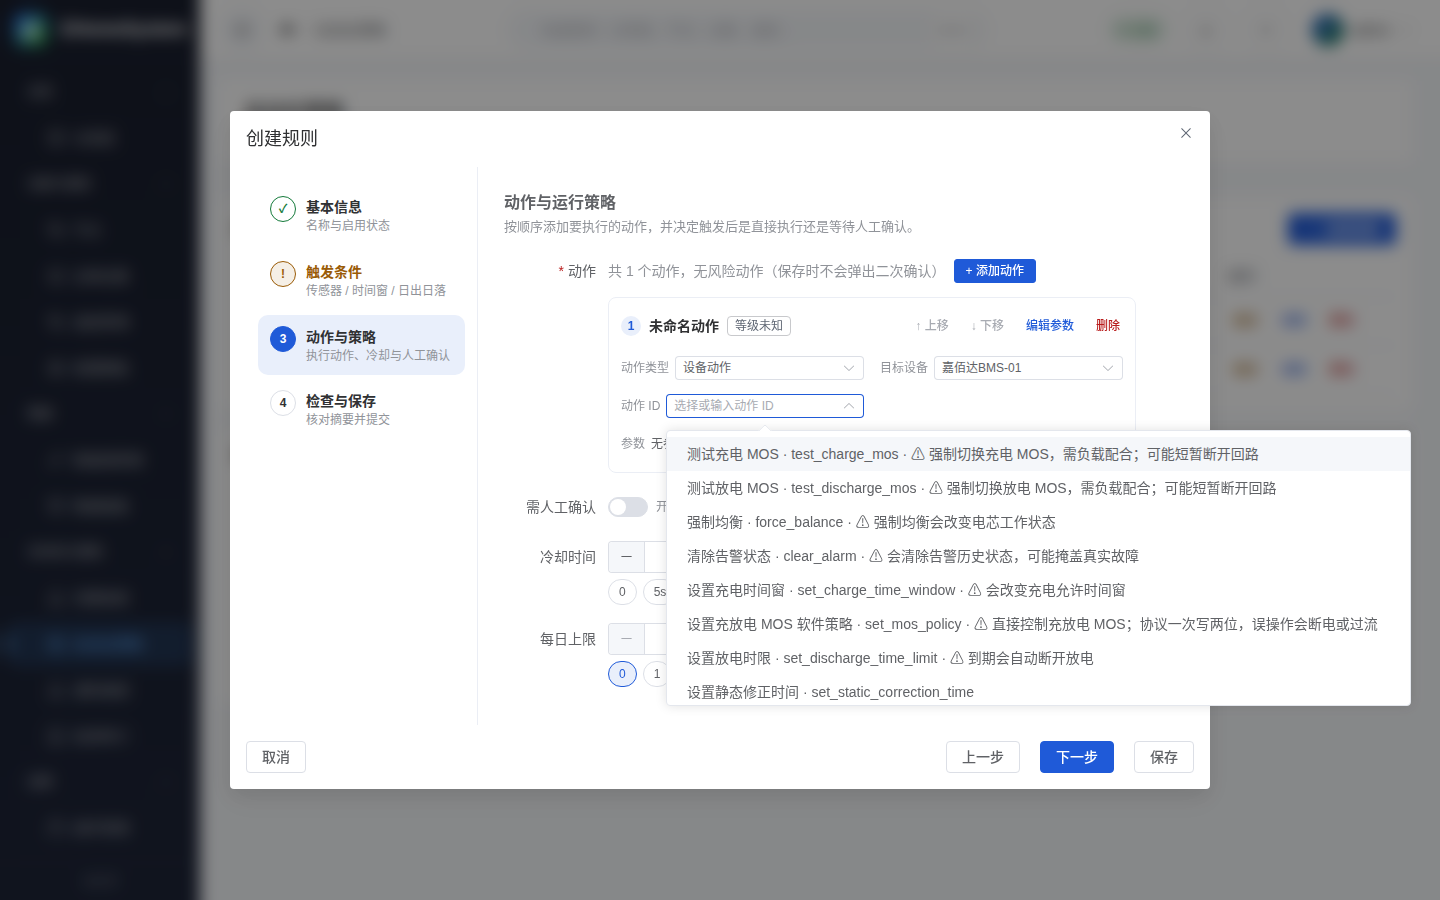
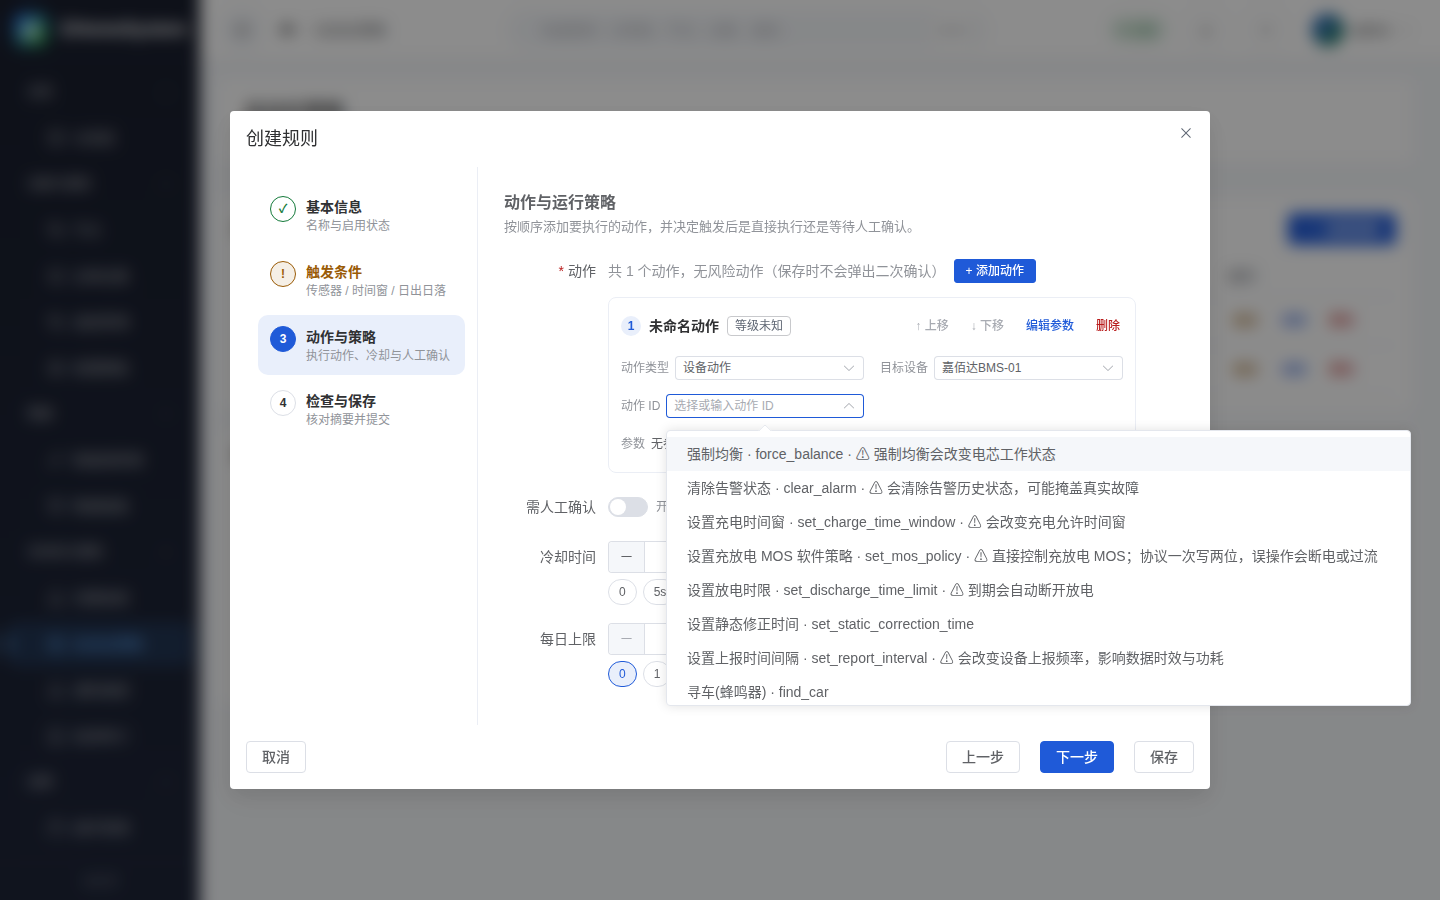
fix(automation): 0x0C 产测 MOS 命令移出规则动作目录
test_charge_mos / test_discharge_mos 是 BMS 产测/自检命令（写 0x0C test_status
后读回 OK/NG/超时，结果依赖外部负载），不是可反复设置的状态开关，也不适合
规则编排。两者显式标为 Exposure=diagnostic，只保留在设备详情/手动控制；
规则向导 automation 目录由 12 个降为 10 个方法动作。

同步更新 BMS 元数据单测、分析/验证文档与证据截图。

Changed region(s): [[0.4688, 0.4978, 0.9688, 0.7778]]

diff --git a/backend/internal/drivers/jiabaida_control.go b/backend/internal/drivers/jiabaida_control.go
@@ -82,13 +82,16 @@ func (d *JiabaidaBMSDriver) ControlActions() []ControlAction {
 	// MOS test / balance / buzzer / alarm / EDV / custom / resistance / timing
 	// -----------------------------------------------------------------------
 	actions = append(actions,
+		// 0x0C 是 BMS 的产测/自检命令，不是可反复设置的状态开关：写 test_status
+		// 触发一次测试，结果依赖外部负载，读回只用于判定 OK/NG/超时。规则编排要的是
+		// 幂等的开关方法，因此这两个动作仅保留在设备详情/手动控制（diagnostic）。
 		ControlAction{ID: "test_charge_mos", Version: 1, Name: "测试充电 MOS",
 			Description: "0C 写 test_status=01 + 读回 0C 状态对账；测试需注入负载电流",
-			Semantics:   "set", Enabled: true, Risk: "high", ExecutionShape: "bounded_sequence", Verification: "readback",
+			Semantics:   "set", Exposure: "diagnostic", Enabled: true, Risk: "high", ExecutionShape: "bounded_sequence", Verification: "readback",
 			AtMostOnce: true, MaxSteps: 2},
 		ControlAction{ID: "test_discharge_mos", Version: 1, Name: "测试放电 MOS",
 			Description: "0C 写 test_status=02 + 读回 0C 状态对账；测试需注入负载电流",
-			Semantics:   "set", Enabled: true, Risk: "high", ExecutionShape: "bounded_sequence", Verification: "readback",
+			Semantics:   "set", Exposure: "diagnostic", Enabled: true, Risk: "high", ExecutionShape: "bounded_sequence", Verification: "readback",
 			AtMostOnce: true, MaxSteps: 2},
 		ControlAction{ID: "read_test_mos_status", Version: 1, Name: "读取 MOS 测试状态",
 			Description: "0C 读：返回充放电 MOS 测试状态(0 未测试/1 OK/2 NG/3 超时)",

diff --git a/backend/internal/drivers/jiabaida_metadata_test.go b/backend/internal/drivers/jiabaida_metadata_test.go
@@ -52,4 +52,11 @@ func TestJiabaidaAutomationMetadata(t *testing.T) {
 			t.Errorf("%s must carry risk_reason", id)
 		}
 	}
+
+	// 0x0C 是产测/自检命令，不是可反复设置的状态开关：只能留在设备详情/手动控制。
+	for _, id := range []string{"test_charge_mos", "test_discharge_mos"} {
+		if byID[id].Exposure != "diagnostic" {
+			t.Errorf("%s exposure = %q, want diagnostic", id, byID[id].Exposure)
+		}
+	}
 }

diff --git a/docs/README.md b/docs/README.md
@@ -29,7 +29,7 @@
 ### 2026-11-14（**创建规则四问题修复** —— 步骤状态 / 动作目录 / 风险 / MOS）
 
 - **步骤状态**：跳过未完成步骤显示黄色 !，补齐即转绿；保存前标记全部错误步骤并跳回第一个。修掉"位置在前 = 已完成"的错误。
-- **动作目录**：新增 Exposure（automation/diagnostic/configuration）、RiskReason、Presets；自动化只保留 12 个方法动作，BMS 的 read_*/write_* 不再出现；风险选项显示具体风险原因。
+- **动作目录**：新增 Exposure（automation/diagnostic/configuration）、RiskReason、Presets；自动化只保留 10 个方法动作（0x0C 产测命令也归入 diagnostic），BMS 的 read_*/write_* 不再出现；风险选项显示具体风险原因。
 - **可用性拆分**：Catalog 增加 Configurable / RuntimeReason；设备离线时动作仍可选、可保存，页面显示一条"设备当前离线"横幅，不再逐项重复"当前不可用"。
 - **MOS 简化**：set_mos_policy 提供 4 个一键预设（充电/放电 × 开/关），选中后不再自动弹参数表单，priority 不出现在默认路径；高级入口保留。
 - **验证**：前端 2567 passed | 1 skipped、typecheck 绿；后端 go test ./... 通过；Playwright 截图见 [证据-2026-11-14-规则目录修复](验证/证据-2026-11-14-规则目录修复/)，详见 [验证记录 §16](验证/日出日落BMS-MOS-自动化验证记录-2026-11-13.md)。

diff --git a/docs/验证/日出日落BMS-MOS-自动化验证记录-2026-11-13.md b/docs/验证/日出日落BMS-MOS-自动化验证记录-2026-11-13.md
@@ -461,10 +461,10 @@ Playwright（真实浏览器 + 运行中后端）：
 | 指标 | 修复前 | 修复后 |
 |---|---|---|
 | 目录总数 | 28（含 read_*/write_*） | 28（全部） |
-| 规则向导候选 | 28 | **12（仅 automation 方法动作）** |
+| 规则向导候选 | 28 | **10（仅 automation 方法动作）** |
 | read_*/write_* 泄漏 | 有 | **0** |
 | 选项风险文案 | 只有「⚠ 风险」 | 「⚠ 具体风险原因」 |
-| 设备离线时 | 28 项均「当前不可用」 | Configurable=12、Available=0、RuntimeReasonCode=node_offline；页面一条横幅，动作仍可选 |
+| 设备离线时 | 28 项均「当前不可用」 | Configurable=10、Available=0、RuntimeReasonCode=node_offline；页面一条横幅，动作仍可选 |
 
 - 后端：CatalogItem 增加 configurable / runtime_reason(_code)；CatalogFiltered 支持 purpose；
 - 前端：规则向导请求 purpose=automation；离线显示「设备当前不可执行（设备节点当前离线）；规则仍可保存，执行时由后端判定」。

diff --git a/docs/分析/创建规则-四问题根因与解决方案-2026-11-14.md b/docs/分析/创建规则-四问题根因与解决方案-2026-11-14.md
@@ -320,7 +320,7 @@ type ControlAction struct {
   - 运行期门禁：nodeStatus/reportedActionChannel/appliedManifest/currentCapabilities/definitionFits；
   - 设备离线时 Configurable=true、Available=false、RuntimeReasonCode=node_offline；
 - GET /edge-devices/:id/actions 增加 purpose 过滤（automation/diagnostic/configuration）；
-- 规则向导只请求 purpose=automation；BMS 28 个动作过滤后剩 12 个方法动作，read_*/write_* 不再出现；
+- 规则向导只请求 purpose=automation；BMS 28 个动作过滤后剩 10 个方法动作，read_*/write_* 不再出现；0x0C 产测命令 test_charge_mos/test_discharge_mos 归为 diagnostic（只留设备详情/手动控制）；
 - 选项标签显示 risk_reason，不再只有"⚠ 风险"；运行期不可用改为设备级横幅。
 
 ### 10.3 BMS MOS
